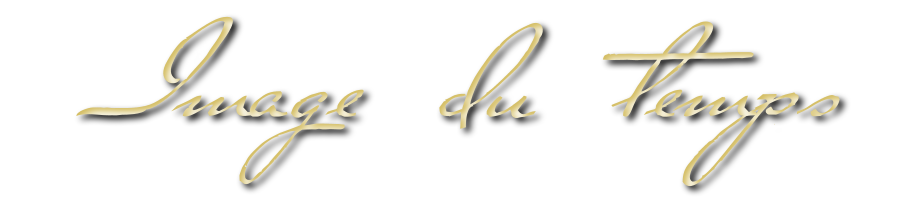
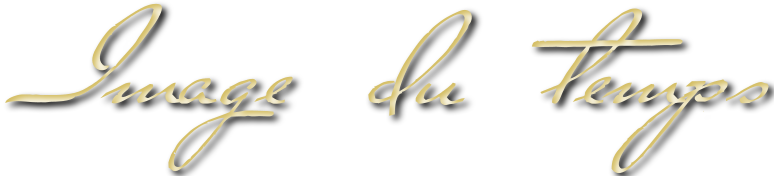
MaJ maquette

Changed region(s): [[0.6512, 0.0284, 1.0, 1.0], [0.0, 0.0, 0.4031, 1.0], [0.4651, 0.0568, 0.6202, 0.7102]]

diff --git a/style.css b/style.css
@@ -1,40 +1,78 @@
 body {
-	background : linear-gradient(#1a0000, #4d0000)		/* Fond dégradé du bas gauche vers le haut droite */
+	background : linear-gradient(#1a0000, #4d0000);	/* Fond dégradé du bas gauche vers le haut droite */
+	width : 100%;
+	height : 100%;
+	margin : 0;
+	padding : 0;
 }
 /*menu */
 	nav {
 		float : left;				/* pour situé des éléments sur la gauche */
 		margin : 20px 0 0 10px;		/* Marge externe haut et gauche */
+		height : 100%;
 	}
 	nav ul {
 		display : none;				/* Efface la liste des pays */
-		opacity : 0.5;
+		
 	}
 	nav:hover ul {
 		display : block;			/* Affiche au survol la liste des pays */
+		opacity : 0.5;
 	}
 	nav ul li #fr:hover {
 		opacity : 1;
 	}
+	nav ul li #uk:hover {
+		opacity : 1;
+	}
+
+/* Section */
+	section {
+		float : left;
+		width : calc(100% - 52px);	/* calc() permet de rtrancher l´espace menu + marge des 100 % de l´écran, attention à la syntaxe */
+		margin : auto;
+		position : relative;
+		top : 10px;
+		left : 10px;
+	}
 
 /* Section header */
 	section header #titre {
-		display : block;			/* Permet de mettre en bloc l´image oour la centrer par la suite */
+		float : left;				/* Pour situer la légende sur la gauche */
 		width : 100%;				/* Prend toute la largeur pour les petits écrans */
-		max-width : 916px;			/* Largeur maxi */
+		max-width : 30%;			/* Largeur maxi */
 		height : auto;				/* Garde la proportion largeur hauteur lors du rétricessement */
-		margin : auto;
 		margin-top : 10px;
+		margin-left : 2%;
+		border : 0px green solid;
 	}
 	section header #legende {
 		width : 100%;				/* Prend toute la largeur pour les petits écrans */
-		max-width : 385px;			/* Largeur maxi */
+		max-width : 30%;			/* Largeur maxi */
 		height : auto;
-		margin : -20px 0 0 40%;
+		border : 0px green solid;
+		margin-top : 50px;
+		margin-left : 30px;
 	}
 	
 /* Section aside */
-	section aside {
-		position : relative;		/* Position relative pour mettre une position absolute sur l´enfant */
-		margin 
+		
+	section aside #a1900 {
+		position : absolute;
+		top : 80px;
+		left : 20px;
+		width : 80%;
+		max-width : 851px;
+		height : auto;
+		z-index : 6;
 	}
+	section aside #a2000 {
+		position : absolute;
+		top : 100px;
+		left : 40px;
+		width : 80%;
+		max-width : 851px;
+		height : auto;
+		z-index : 5;
+	}
+	

diff --git a/index.html b/index.html
@@ -7,6 +7,7 @@
 	<script type="text/javascript" src="scriptJS.js"></script>
 </head>
 <body>
+	<section>
 		<nav>
 			<img src="image/menuEnthousiasme.png" alt="menu" class="menu" />
 			<ul>
@@ -14,18 +15,16 @@
 				<li><img src="image/flagUK.png" alt="France" id="uk" class="menu" /></li>
 			</ul>
 		</nav>
-		<section>
+		
 			<header>
 				<img src="image/titre.png" alt="titre" id="titre" />
 				<img src="image/legende.png" alt="légende" id="legende" />
 			</header>
 			<aside>
 				<figure id="a1900">
-					<img src="image/debardeur.png" alt="Débardeur en 1950" class="photo" />
+					<img src="image/debardeur.png" alt="Débardeur en 1950" id="a1900" class="photo" />
 					<figcaption>1950</figcaption>
-				</figure>
-				<figure id="a2000">
-					<img src="image/debardeur_homologue.png" alt="Débardeur en 2018" class="photo" />
+					<img src="image/debardeur_homologue.png" alt="Débardeur en 2018" id="a2000" class="photo" />
 					<figcaption>2018</figcaption>
 				</figure>
 			</aside>
